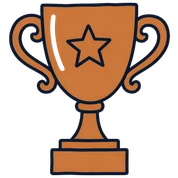
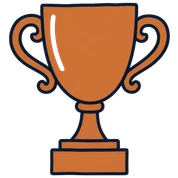
feat: the podium hatched in pen, places written on plain-cup trophies, and a shorter sign-in line

diff --git a/src/app/b/[slug]/vote/scribbles.tsx b/src/app/b/[slug]/vote/scribbles.tsx
@@ -1,14 +1,15 @@
 /**
- * A podium step's colour, scribbled in like crayon (UI pass, 2026-10-03):
- * one long stroke zig-zagging back and forth from top to bottom, drawn on
- * from start to end once the step has risen (`scribble`, globals.css). The
- * gaps between passes stay, so the finished step keeps its crayon texture.
- * With reduced motion it's simply filled in.
+ * A podium step's colour, scribbled in with a pen (UI pass, 2026-10-03):
+ * one long, thin stroke zig-zagging tightly back and forth from top to
+ * bottom, drawn on from start to end once the step has risen (`scribble`,
+ * globals.css). The white between the lines stays, so the finished step
+ * reads as quick pen hatching rather than a flat fill. With reduced motion
+ * it's simply there.
  */
 
-/** Pixels between passes; the stroke is wider, so passes overlap a little. */
-const PASS = 7;
-const STROKE = 13;
+/** Pixels between passes, and the pen's line width: tight, with white between. */
+const PASS = 4.5;
+const STROKE = 2.6;
 /** How far each pass runs past the step's edges, so the turns don't show. */
 const OVERSHOOT = 34;
 
@@ -20,7 +21,7 @@ function zigzag(width: number, height: number): string {
   const points: string[] = [];
   for (let y = 2, pass = 0; y < height + PASS; y += PASS, pass++) {
     // A steady wobble, so a re-render doesn't redraw a different scribble.
-    const wobble = ((pass * 7) % 5) - 2;
+    const wobble = (((pass * 7) % 5) - 2) * 0.6;
     const from = pass % 2 ? width + OVERSHOOT : -OVERSHOOT;
     const to = pass % 2 ? -OVERSHOOT : width + OVERSHOOT;
     if (pass === 0) points.push(`M${from} ${y}`);
@@ -71,6 +72,8 @@ export function ScribbleFill({
         fill="none"
         stroke="currentColor"
         strokeWidth={STROKE}
+        // The step stretches the scribble sideways; keep the pen's line even.
+        vectorEffect="non-scaling-stroke"
         strokeLinecap="round"
         strokeLinejoin="round"
       />

diff --git a/src/app/b/[slug]/vote/podium.tsx b/src/app/b/[slug]/vote/podium.tsx
@@ -128,15 +128,24 @@ export function Podium({ leaders }: { leaders: Leader[] }) {
                   duration={Math.round((SCRIBBLE_MS * step.height) / 144)}
                   className={step.color}
                 />
-                <Image
-                  src={`/trophies/${step.trophy}.webp`}
-                  alt=""
-                  width={step.size}
-                  height={step.size}
-                  // Already small WebP files (public/trophies).
-                  unoptimized
-                  className={`relative ${leader ? "" : "opacity-30 grayscale"}`}
-                />
+                {/* The trophy, with its place written on the cup. */}
+                <span className="relative">
+                  <Image
+                    src={`/trophies/${step.trophy}.webp`}
+                    alt=""
+                    width={step.size}
+                    height={step.size}
+                    // Already small WebP files (public/trophies).
+                    unoptimized
+                  />
+                  <span
+                    aria-hidden
+                    className="text-foreground absolute top-[31%] left-1/2 -translate-x-1/2 -translate-y-1/2 font-black tracking-tight"
+                    style={{ fontSize: Math.round(step.size * 0.22) }}
+                  >
+                    {ordinal(place)}
+                  </span>
+                </span>
                 {leader && (
                   <span className="relative text-xs font-bold tabular-nums">
                     {votesLabel(leader.votes)}

diff --git a/src/app/b/[slug]/vote/page.tsx b/src/app/b/[slug]/vote/page.tsx
@@ -148,7 +148,7 @@ export default async function VotePage({
                   <span className="text-foreground font-semibold">
                     Want a say?
                   </span>{" "}
-                  Sign in to vote. Three votes each per week, from any device.
+                  Sign in to vote. Three votes per week!
                 </p>
                 <GoogleSignIn next={`/b/${slug}/vote`} size="sm" />
               </div>
